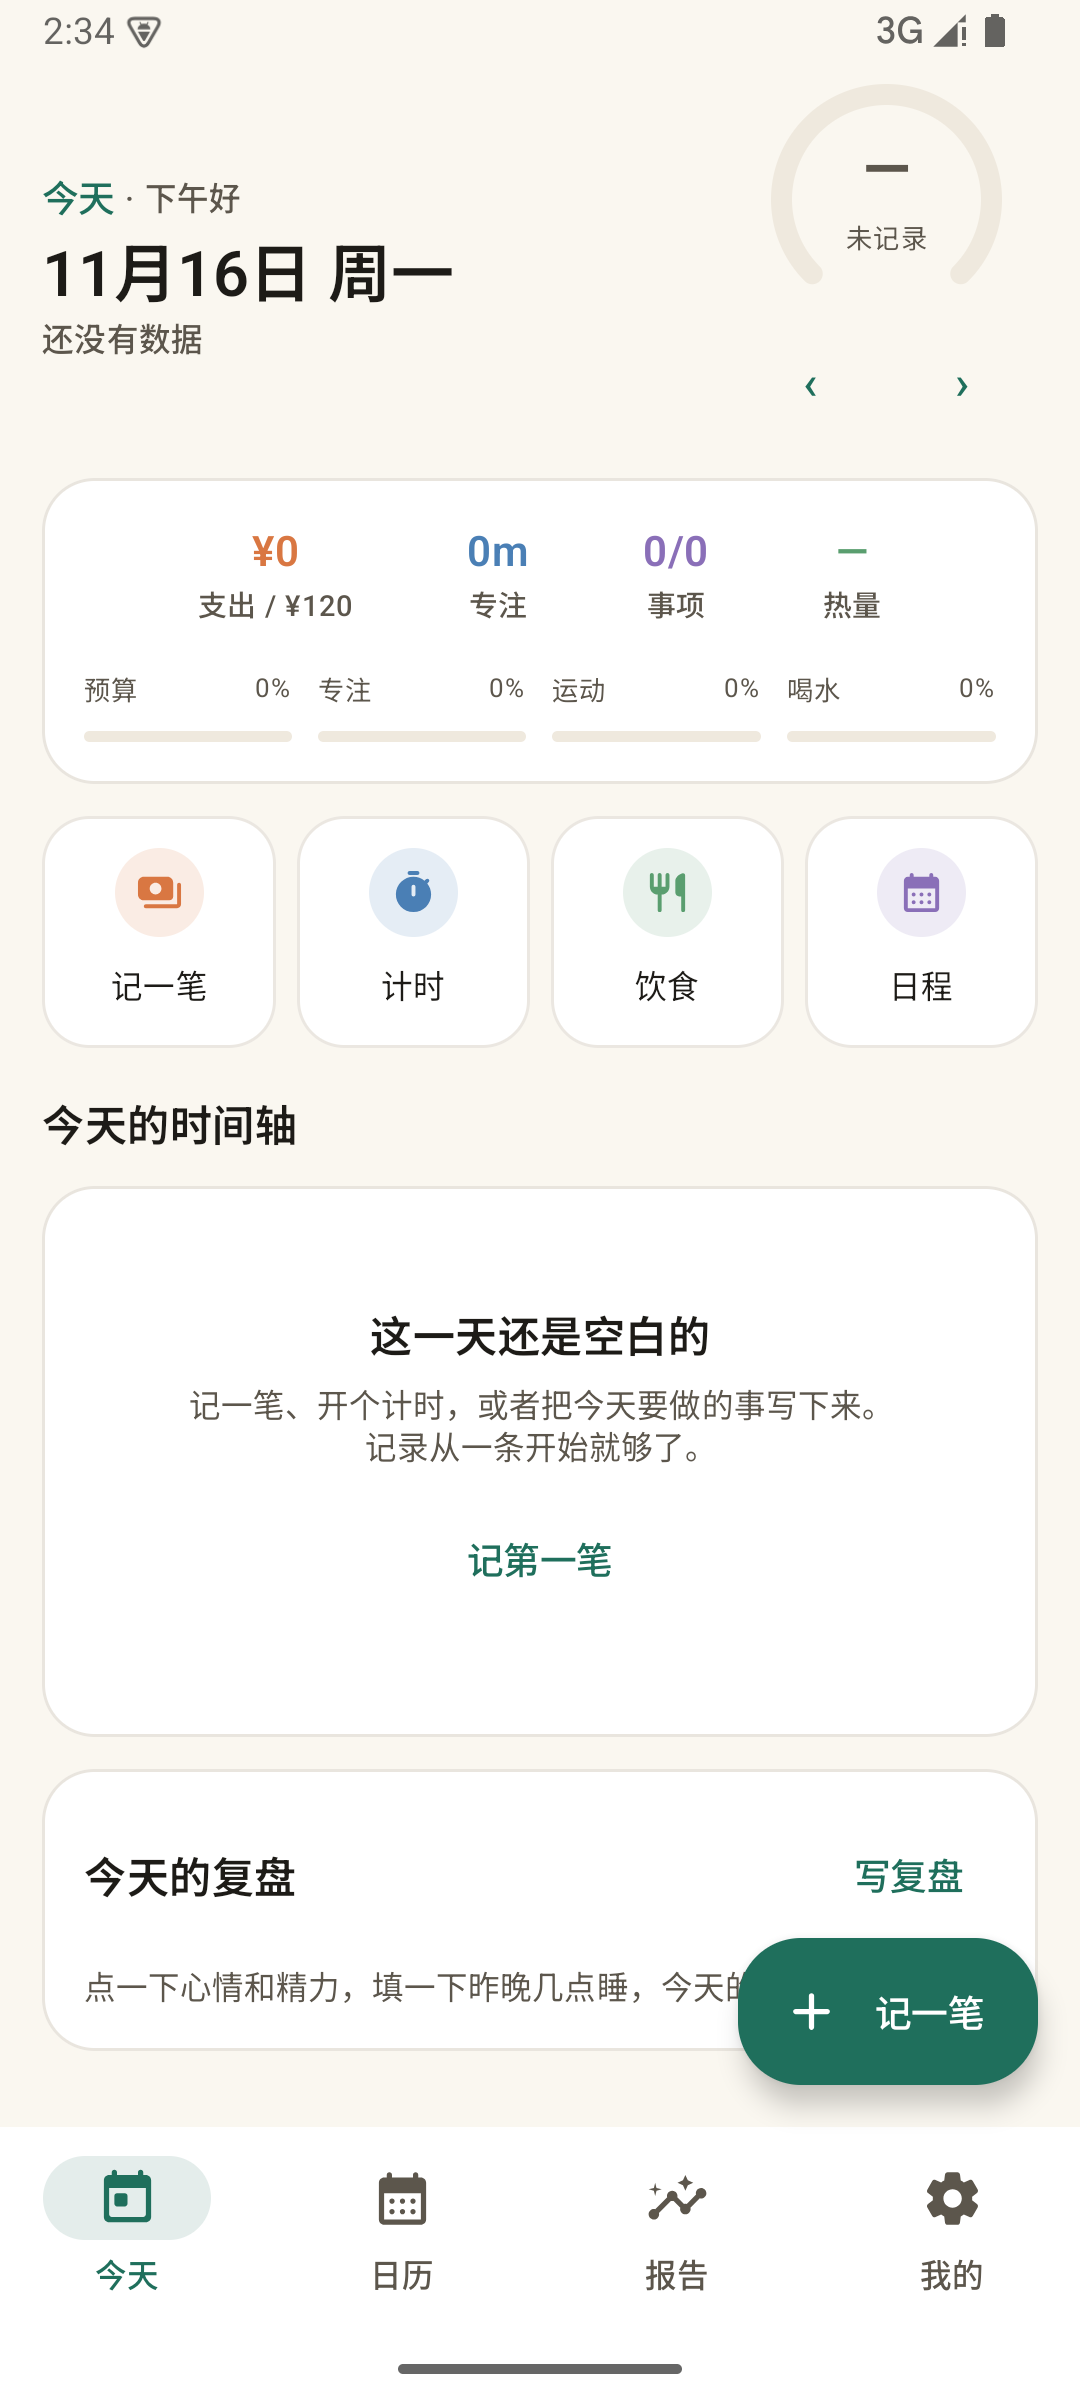
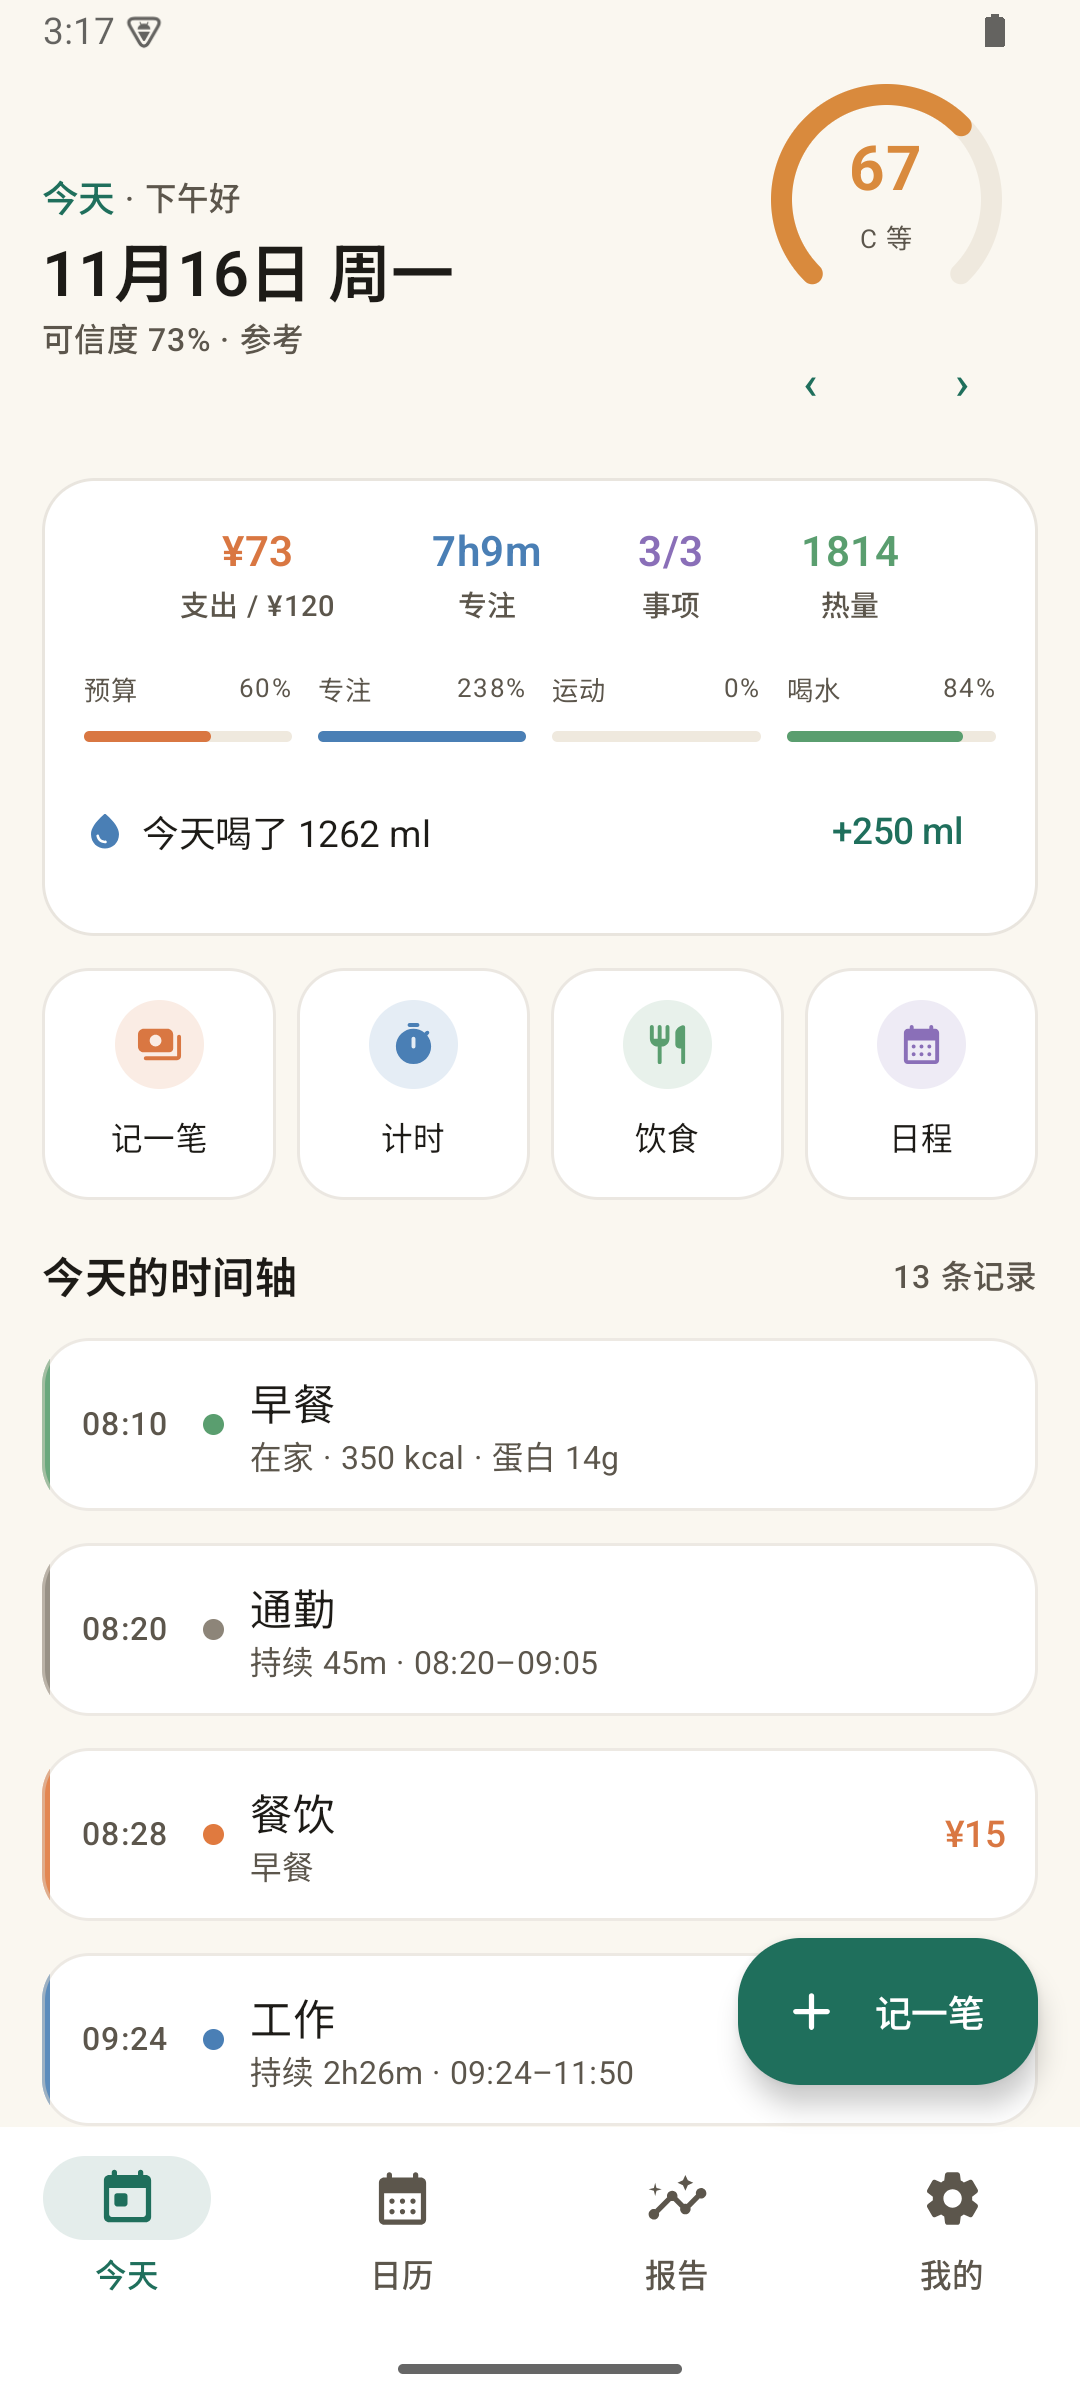
docs: 版本号更新到 1.0.6

diff --git a/docs/03-安装与使用.md b/docs/03-安装与使用.md
@@ -1,10 +1,10 @@
-# 日计 · 安装与使用（v1.0.4）
+# 日计 · 安装与使用（v1.0.6）
 
 ## 1. 安装
 
-APK 在 `dist/dayledger-1.0.4.apk`（正式包 11.5 MB，Android 8.0 以上）。
+APK 在 `dist/dayledger-1.0.6.apk`（正式包 11.5 MB，Android 8.0 以上）。
 
-> 想先看看有数据的样子：装 `dayledger-1.0.4-debug.apk`，然后在电脑上执行
+> 想先看看有数据的样子：装 `dayledger-1.0.6-debug.apk`，然后在电脑上执行
 > `adb shell am start -n com.dayledger.app/.MainActivity --ez demo true`，
 > 会写入两周示例数据（只有空库才会写，正常用不会触发）。
 
